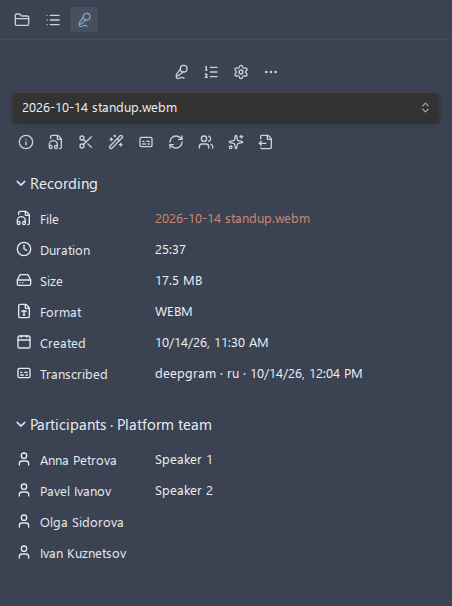
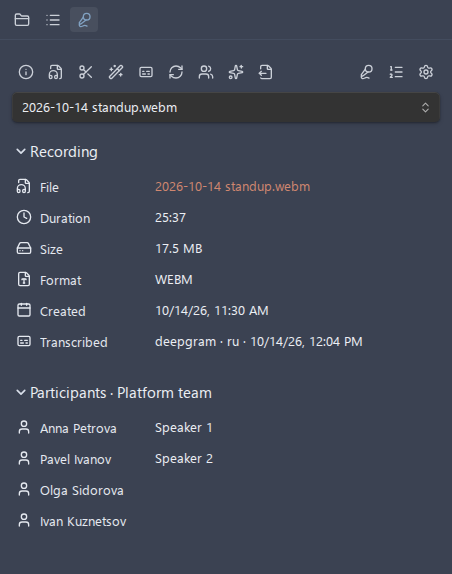
feat(panel): put the panel's buttons in the row of file actions
The record, queue and settings buttons had a row of their own above the
row of file action icons, with a "More options" button beside them. They
now close the one row of icons, after the file actions, pushed to its end,
and the panel's own "More options" menu is gone: deleting a recording is
left to the file menu, and to the view header's menu when the panel sits
in the main area.

diff --git a/src/panel/RecordingPanelView.ts b/src/panel/RecordingPanelView.ts
@@ -24,10 +24,9 @@ import {
 	DropdownComponent,
 	ExtraButtonComponent,
 	ItemView,
-	Menu,
 	setIcon,
 } from 'obsidian';
-import type { TFile, ViewStateResult, WorkspaceLeaf } from 'obsidian';
+import type { Menu, TFile, ViewStateResult, WorkspaceLeaf } from 'obsidian';
 import {
 	COMMAND_IDS,
 	PLUGIN_LOG_PREFIX,
@@ -83,8 +82,11 @@ const EXCLUDED_ACTIONS: ReadonlySet<string> = new Set([
 /** Root class of the panel's content, which its stylesheet rules hang on. */
 const PANEL_CLASS = 'aar-recording-panel';
 
-/** The row of icon buttons that runs the recording's file actions. */
-const ACTIONS_CLASS = 'aar-recording-panel-actions';
+/** The row of icon buttons at the top: the file actions, then the panel's own. */
+const TOOLBAR_CLASS = 'aar-recording-panel-toolbar';
+
+/** The panel's own buttons, kept together at the end of the toolbar. */
+const TOOLS_CLASS = 'aar-recording-panel-tools';
 
 /** The sections of the panel, by the key their collapsed state is kept under. */
 const PanelSection = {
@@ -481,8 +483,8 @@ export class RecordingPanelView extends ItemView {
 	}
 
 	/**
-	 * Draws the whole panel: its buttons, the recording and what can be done
-	 * with it, then who took part.
+	 * Draws the whole panel: one row of buttons, the recording, then who took
+	 * part.
 	 * @param target - What the active file refers to
 	 * @param selected - The recording shown, or null for none
 	 * @param summary - What its sidecar holds, null with nothing selected
@@ -495,7 +497,7 @@ export class RecordingPanelView extends ItemView {
 		const root = this.contentEl;
 		root.empty();
 		root.addClass(PANEL_CLASS);
-		this.renderButtons(root, selected !== null);
+		this.renderToolbar(root, selected);
 		if (!selected) {
 			root.createDiv({
 				cls: 'pane-empty',
@@ -506,7 +508,6 @@ export class RecordingPanelView extends ItemView {
 		if (target.recordings.length > 1) {
 			this.renderPicker(root, target.recordings, selected);
 		}
-		this.renderActions(root, selected);
 		const recording = this.section(
 			root,
 			PanelSection.Recording,
@@ -523,55 +524,6 @@ export class RecordingPanelView extends ItemView {
 		if (summary) {
 			this.renderTranscribedRow(recording, summary);
 			this.renderParticipants(root, summary);
-		}
-	}
-
-	/**
-	 * The panel's own buttons, in a row at its top: the place a sidebar pane
-	 * keeps them, since Obsidian shows no view header there.
-	 * @param root - The panel's content
-	 * @param withMenu - Whether a recording is shown for the menu to act on
-	 */
-	private renderButtons(root: HTMLElement, withMenu: boolean): void {
-		const row = root
-			.createDiv({ cls: 'nav-header' })
-			.createDiv({ cls: 'nav-buttons-container' });
-		this.recordButton = new ExtraButtonComponent(row).onClick(() => {
-			void this.host.recording
-				.toggleRecording()
-				.catch((error: unknown) => {
-					console.error(
-						`${PLUGIN_LOG_PREFIX} Starting or stopping a recording from the panel failed:`,
-						error,
-					);
-				})
-				.finally(() => {
-					this.refreshRecordingState();
-				});
-		});
-		this.refreshRecordingState();
-		new ExtraButtonComponent(row)
-			.setIcon('list-ordered')
-			.setTooltip('Show the transcription queue')
-			.onClick(() => {
-				this.host.openTranscriptionQueue();
-			});
-		new ExtraButtonComponent(row)
-			.setIcon('settings')
-			.setTooltip('Open settings')
-			.onClick(() => {
-				this.host.openSettings();
-			});
-		if (withMenu) {
-			const more = new ExtraButtonComponent(row)
-				.setIcon('more-horizontal')
-				.setTooltip('More options');
-			more.onClick(() => {
-				const menu = new Menu();
-				this.addFileActionsTo(menu);
-				const box = more.extraSettingsEl.getBoundingClientRect();
-				menu.showAtPosition({ x: box.left, y: box.bottom });
-			});
 		}
 	}
 
@@ -600,18 +552,54 @@ export class RecordingPanelView extends ItemView {
 		});
 	}
 
-	/** One icon button per file action available for the recording. */
-	private renderActions(root: HTMLElement, file: TFile): void {
-		const context: FileContext = { file, services: this.host.services };
-		const row = root.createDiv({ cls: ACTIONS_CLASS });
-		for (const action of this.availableActions(context)) {
-			new ExtraButtonComponent(row)
-				.setIcon(action.icon)
-				.setTooltip(action.title)
-				.onClick(() => {
-					runActionLogged(action, context, 'the recording panel');
-				});
+	/**
+	 * The one row of icon buttons at the top of the panel: the recording's
+	 * file actions, then the panel's own buttons at the row's end. Obsidian
+	 * shows no view header in a sidebar, so the panel's buttons live here
+	 * rather than in addAction.
+	 * @param root - The panel's content
+	 * @param file - The recording shown, or null for none
+	 */
+	private renderToolbar(root: HTMLElement, file: TFile | null): void {
+		const row = root.createDiv({ cls: TOOLBAR_CLASS });
+		if (file) {
+			const context: FileContext = { file, services: this.host.services };
+			for (const action of this.availableActions(context)) {
+				new ExtraButtonComponent(row)
+					.setIcon(action.icon)
+					.setTooltip(action.title)
+					.onClick(() => {
+						runActionLogged(action, context, 'the recording panel');
+					});
+			}
 		}
+		const tools = row.createDiv({ cls: TOOLS_CLASS });
+		this.recordButton = new ExtraButtonComponent(tools).onClick(() => {
+			void this.host.recording
+				.toggleRecording()
+				.catch((error: unknown) => {
+					console.error(
+						`${PLUGIN_LOG_PREFIX} Starting or stopping a recording from the panel failed:`,
+						error,
+					);
+				})
+				.finally(() => {
+					this.refreshRecordingState();
+				});
+		});
+		this.refreshRecordingState();
+		new ExtraButtonComponent(tools)
+			.setIcon('list-ordered')
+			.setTooltip('Show the transcription queue')
+			.onClick(() => {
+				this.host.openTranscriptionQueue();
+			});
+		new ExtraButtonComponent(tools)
+			.setIcon('settings')
+			.setTooltip('Open settings')
+			.onClick(() => {
+				this.host.openSettings();
+			});
 	}
 
 	/**

diff --git a/tests/unit/RecordingPanelView.test.ts b/tests/unit/RecordingPanelView.test.ts
@@ -29,7 +29,6 @@ import { allEls, el, maybeEl } from '../helpers/dom';
 import { at } from '../helpers/assertions';
 import { flushMicrotasks } from '../helpers/async';
 import { RECORDING_PANEL } from '../helpers/selectors';
-import { menuInstances } from '../mocks/obsidian';
 
 /** A file action double that records the file it ran on. */
 function fileAction(
@@ -267,8 +266,8 @@ describe('the recording panel with nothing to show', () => {
 		const { view } = await createSut();
 
 		expect(
-			allEls(view.contentEl, '.nav-buttons-container [aria-label]').map(
-				(button) => button.getAttribute('aria-label'),
+			allEls(view.contentEl, RECORDING_PANEL.buttons).map((button) =>
+				button.getAttribute('aria-label'),
 			),
 		).toEqual([
 			'Start recording',
@@ -544,28 +543,38 @@ describe('the actions the panel offers', () => {
 });
 
 describe('the menus of the panel', () => {
-	it('lists every action, delete included, from its own options button', async () => {
+	/**
+	 * The panel's buttons and its file actions are one row: the actions
+	 * first, then the record, queue and settings buttons closing it.
+	 */
+	it('keeps its own buttons in one row with the file actions, after them', async () => {
+		const { view } = await createSut({
+			active: recording('sync.webm'),
+			actions: [fileAction(COMMAND_IDS.audioFileInfo, 'Audio file info')],
+		});
+
+		expect(
+			allEls(view.contentEl, RECORDING_PANEL.toolbarButtons).map(
+				(button) => button.getAttribute('aria-label'),
+			),
+		).toEqual([
+			'Audio file info',
+			'Start recording',
+			'Show the transcription queue',
+			'Open settings',
+		]);
+	});
+
+	it('offers no options button of its own', async () => {
 		const { view } = await createSut({
 			active: recording('sync.webm'),
 			actions: [
-				fileAction(COMMAND_IDS.audioFileInfo, 'Audio file info'),
 				fileAction(COMMAND_IDS.deleteRecording, 'Delete recording'),
 			],
 		});
 
-		panelButton(view, 'More options').click();
-
-		expect(at(menuInstances, 0).items.map((item) => item.title)).toEqual([
-			'Audio file info',
-			'Delete recording',
-		]);
-	});
-
-	it('offers no options button with no recording to act on', async () => {
-		const { view } = await createSut();
-
 		expect(
-			maybeEl(view.contentEl, RECORDING_PANEL.button('More options')),
+			maybeEl(view.contentEl, '[aria-label="More options"]'),
 		).toBeNull();
 	});
 

diff --git a/tests/helpers/selectors.ts b/tests/helpers/selectors.ts
@@ -172,14 +172,18 @@ export const SETTING = {
 
 /** The recording panel, built from the classes of Obsidian's Properties block. */
 export const RECORDING_PANEL = {
-	/** One of the panel's own buttons in its top row, by its label. */
+	/** One of the panel's own buttons at the end of its toolbar, by its label. */
 	button: (label: string): string =>
-		`.nav-buttons-container [aria-label="${label}"]`,
+		`.aar-recording-panel-tools [aria-label="${label}"]`,
+	/** The panel's own buttons, in order. */
+	buttons: '.aar-recording-panel-tools .extra-setting-button',
 	/** The icon button of a file action, by its label. */
 	action: (label: string): string =>
-		`.aar-recording-panel-actions [aria-label="${label}"]`,
+		`.aar-recording-panel-toolbar > [aria-label="${label}"]`,
 	/** Every file action button, in order. */
-	actions: '.aar-recording-panel-actions .extra-setting-button',
+	actions: '.aar-recording-panel-toolbar > .extra-setting-button',
+	/** Every button of the toolbar, file actions first, in order. */
+	toolbarButtons: '.aar-recording-panel-toolbar .extra-setting-button',
 	/** A foldable section. */
 	section: '.metadata-container',
 	/** The heading that folds a section. */

diff --git a/styles/styles.css b/styles/styles.css
@@ -1828,16 +1828,24 @@ button.aar-player-marker-row {
 }
 
 /* Recording panel. Its sections reuse the classes of Obsidian's Properties block, so only
-   the picker width, the row of action buttons and the space between sections are set here */
+   the picker width, the row of buttons and the space between sections are set here */
 .aar-recording-panel .dropdown {
     width: 100%;
 }
 
-.aar-recording-panel-actions {
+.aar-recording-panel-toolbar {
     display: flex;
     flex-wrap: wrap;
+    align-items: center;
     gap: var(--size-2-1);
     margin-block: var(--size-4-2);
+}
+
+/* The panel's own buttons close the row, apart from the file actions */
+.aar-recording-panel-tools {
+    display: flex;
+    gap: var(--size-2-1);
+    margin-inline-start: auto;
 }
 
 .aar-recording-panel .metadata-container {

diff --git a/docs/recording-panel.md b/docs/recording-panel.md
@@ -29,7 +29,7 @@ The panel updates on its own when you open another file, when the links in the n
 
 The panel is laid out like Obsidian's own **Properties** block: each section has a heading, and each row an icon, a key and a value. Click a section's heading, or focus it and press Enter, to fold or unfold it. The panel remembers which sections are folded, across notes and across restarts.
 
-![The recording panel in the right sidebar for a meeting note that embeds two recordings: the panel's buttons, the dropdown that picks a recording, a row of action icons, the Recording section with the file, duration, size, format, creation time and transcription, and the Participants section listing four people from the Platform team profile, two of them with the speaker label given to them](images/recording-panel.png)
+![The recording panel in the right sidebar for a meeting note that embeds two recordings: one row of icons with the file actions on the left and the record, queue and settings buttons on the right, the dropdown that picks a recording, the Recording section with the file, duration, size, format, creation time and transcription, and the Participants section listing four people from the Platform team profile, two of them with the speaker label given to them](images/recording-panel.png)
 
 | Section          | Rows                                                                                                                                                                                        |
 | ---------------- | ------------------------------------------------------------------------------------------------------------------------------------------------------------------------------------------- |
@@ -40,11 +40,12 @@ The duration is read from the file and shows `unknown` when the file cannot be r
 
 ## Buttons and actions
 
-The row at the top of the panel holds its own buttons. Obsidian shows no view header in a sidebar, so they sit where a sidebar pane keeps its own:
+All the panel's buttons are icons in one row at its top. Hover an icon to see its name.
+
+The row opens with the same actions the file menu offers for the recording: **Audio file info**, **Convert audio format**, **Split audio into parts**, **Clean up audio**, **Transcribe audio**, **Rename speakers**, **Generate chapters from transcript** and the others, each shown under the same settings that gate it in the menu. **Delete recording** is not in that row, where it would sit one mis-click away from the action you meant. **Transcribe the parts that failed** is shown only when the last run actually lost parts. To delete a recording, use the file menu.
+
+The panel's own buttons close the row. Obsidian shows no view header in a sidebar, so they sit in the panel itself:
 
 - **Start recording** starts a recording and turns into **Stop recording** while one runs. While a stopped recording is being saved, it reads **Saving the recording** and is disabled until the save is done.
 - **Show the transcription queue** opens the [transcription queue](transcription.md).
 - **Open settings** opens the plugin's settings tab.
-- **More options**, shown while a recording is displayed, opens a menu with every action for it, **Delete recording** included.
-
-Below the recording picker, a row of icons runs the same actions the file menu offers for the recording: **Audio file info**, **Convert audio format**, **Split audio into parts**, **Clean up audio**, **Transcribe audio**, **Rename speakers**, **Generate chapters from transcript** and the others, each shown under the same settings that gate it in the menu. Hover an icon to see its name. **Delete recording** is not in that row, where it would sit one mis-click away from the action you meant. **Transcribe the parts that failed** is shown only when the last run actually lost parts.

diff --git a/docs/features.md b/docs/features.md
@@ -205,7 +205,7 @@ Learn more: [Quick notes](quick-notes.md)
 
 ## Recording panel
 
-A sidebar tab under the plugin's microphone icon, placed in the right sidebar the first time the plugin runs with it on a device, shows what the plugin knows about the recording in front of you: the recording opened on its own, or the one a meeting note embeds or links to. Laid out like Obsidian's Properties block, in sections you can fold, it lists the file's duration, size and format, the engine, language and time it was transcribed, and the participants of the recording, each with the speaker label given to their name. A row of icons runs the recording's file actions, the same ones the file menu offers. Buttons at the top of the panel start and stop a recording, show the transcription queue, open the settings and list every action for the recording, delete included. **Open the recording panel** brings a closed panel back.
+A sidebar tab under the plugin's microphone icon, placed in the right sidebar the first time the plugin runs with it on a device, shows what the plugin knows about the recording in front of you: the recording opened on its own, or the one a meeting note embeds or links to. Laid out like Obsidian's Properties block, in sections you can fold, it lists the file's duration, size and format, the engine, language and time it was transcribed, and the participants of the recording, each with the speaker label given to their name. One row of icons at its top runs the recording's file actions, the same ones the file menu offers, and ends with buttons that start and stop a recording, show the transcription queue and open the settings. **Open the recording panel** brings a closed panel back.
 
 Learn more: [Recording panel](recording-panel.md)
 
